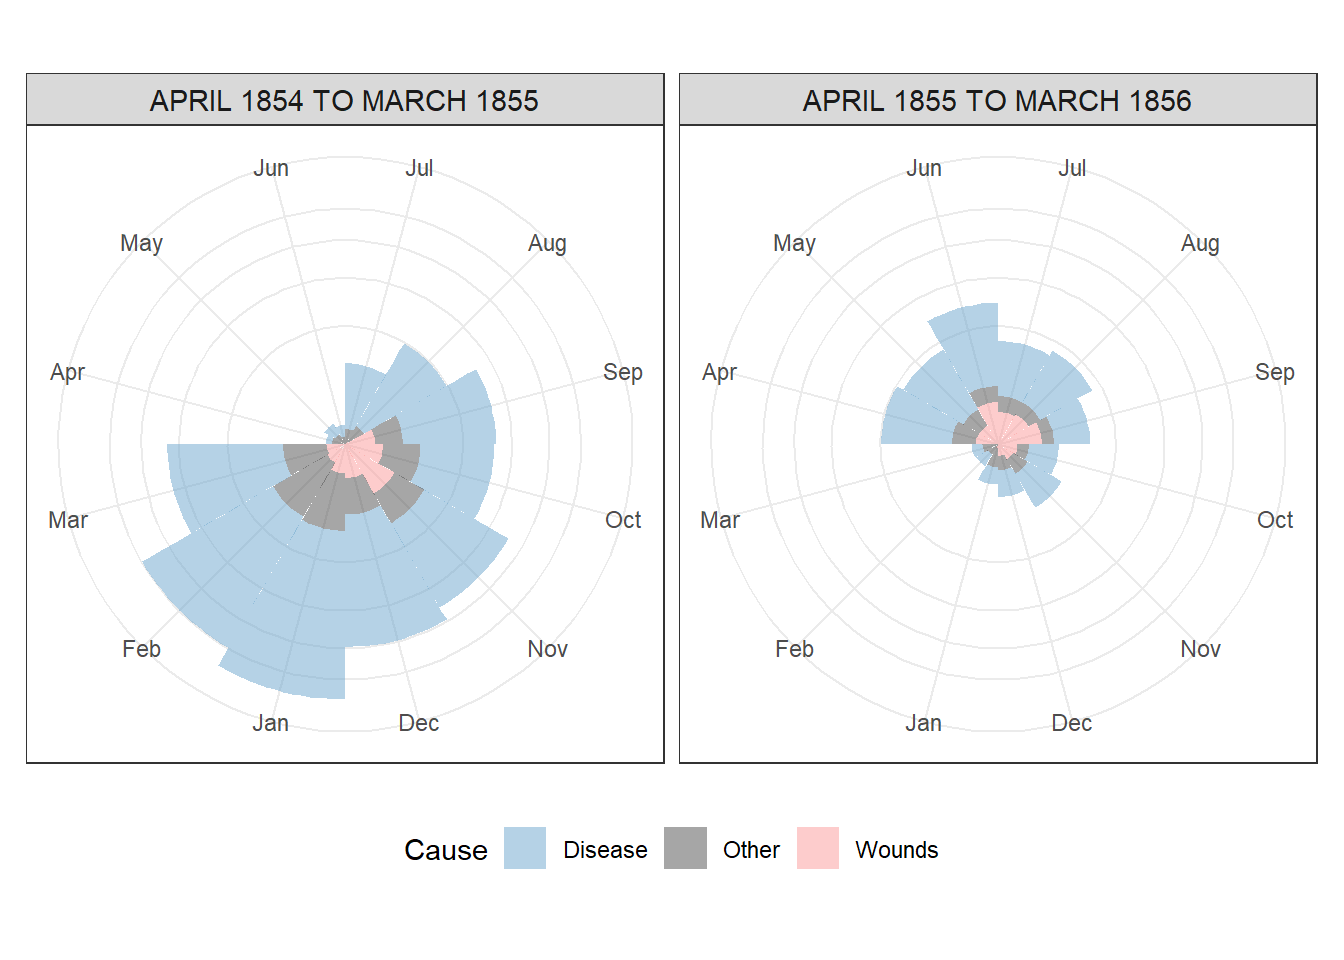
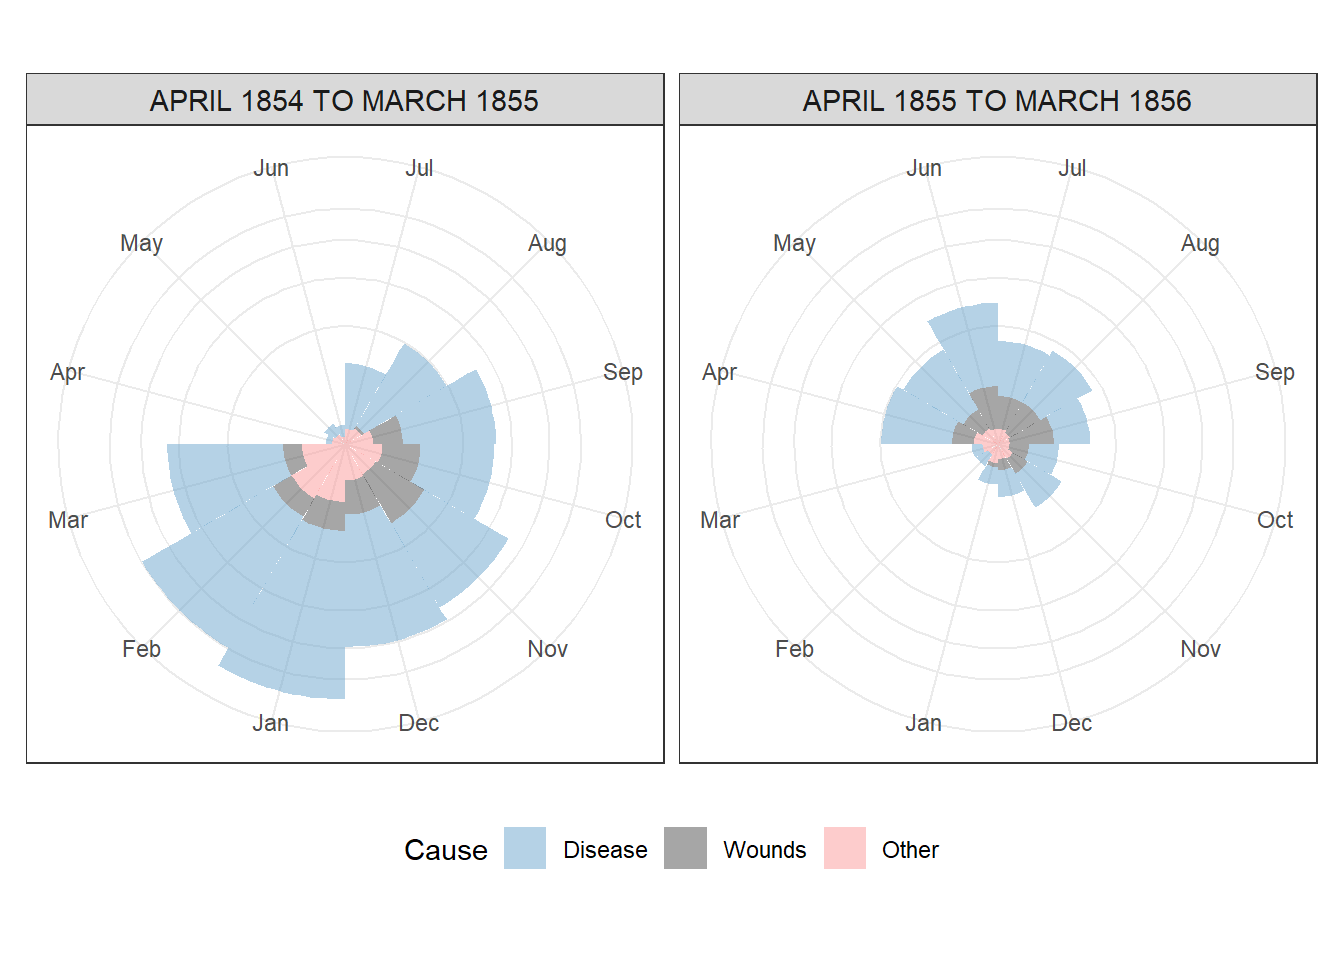
updated

Changed region(s): [[0.5312, 0.8438, 0.7188, 0.9062], [0.2188, 0.4375, 0.3125, 0.5312], [0.7188, 0.4062, 0.7812, 0.5]]

diff --git a/content/post/feb112026.md b/content/post/feb112026.md
@@ -65,7 +65,8 @@ Nightingale |>
          period = ifelse(Date <= as.Date("1855-03-01"), 
                          "APRIL 1854 TO MARCH 1855",
                          "APRIL 1855 TO MARCH 1856"),
-         Month = fct_relevel(Month, "Jul", "Aug", "Sep", "Oct", "Nov", "Dec", "Jan", "Feb", "Mar", "Apr", "May", "Jun"))|>
+         Month = fct_relevel(Month, "Jul", "Aug", "Sep", "Oct", "Nov", "Dec", "Jan", "Feb", "Mar", "Apr", "May", "Jun"),
+         Cause = fct_relevel(Cause, "Disease", "Wounds", "Other"))|>
   ggplot(aes(x=Month, y=Rate, fill=Cause)) + 
   geom_col(width=1, alpha=0.5) + 
   coord_equal(ratio = 1) +  
